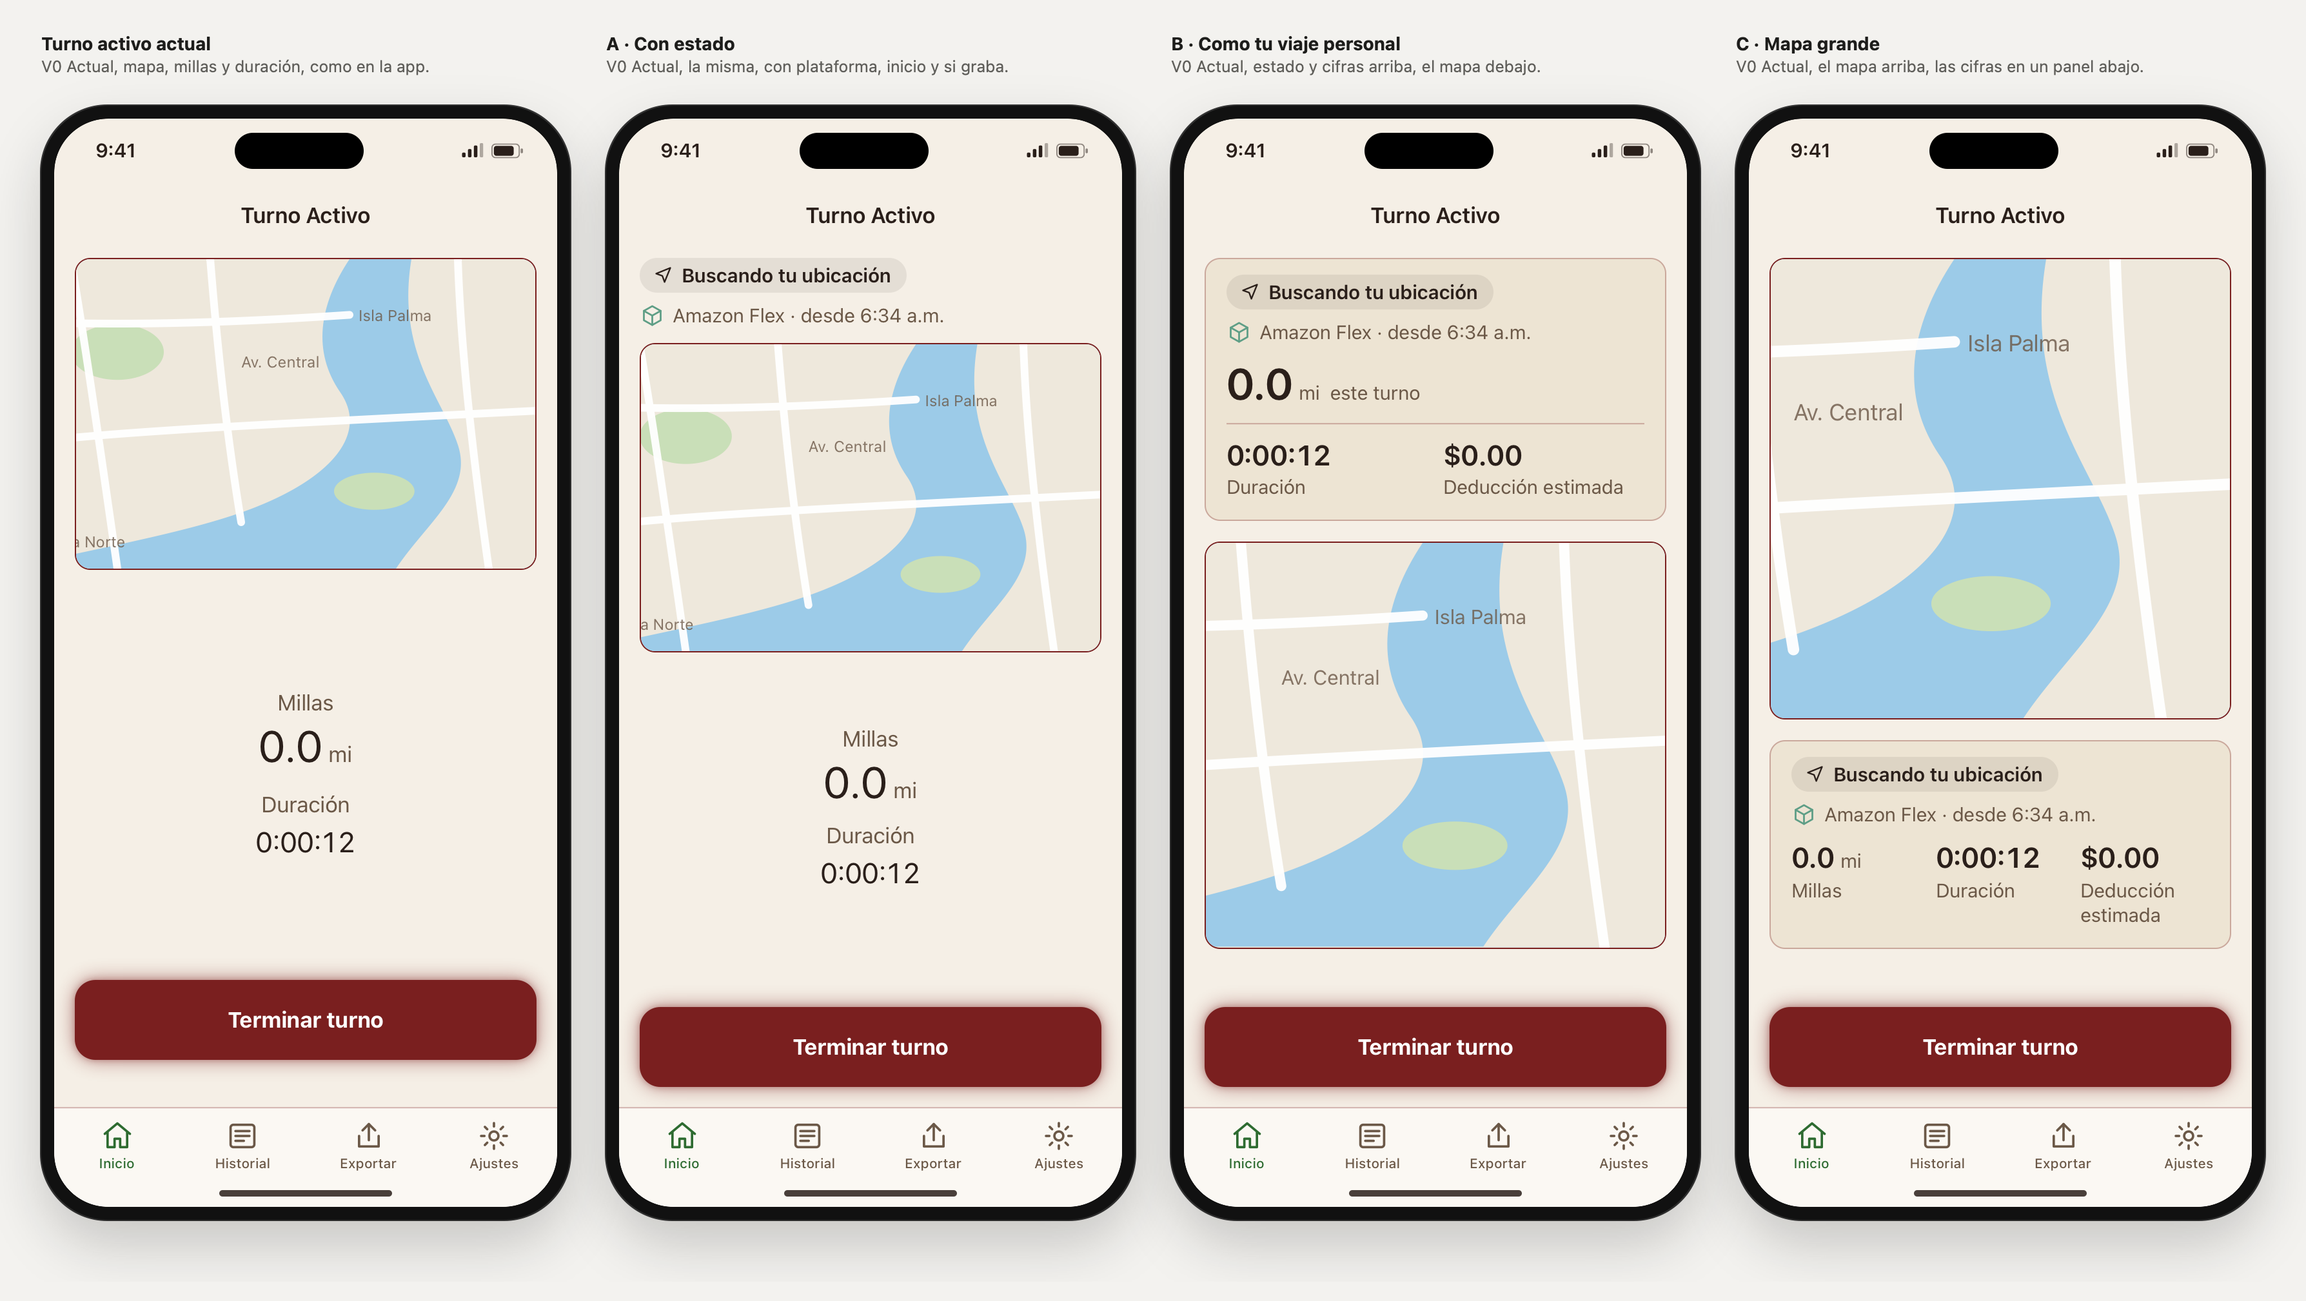
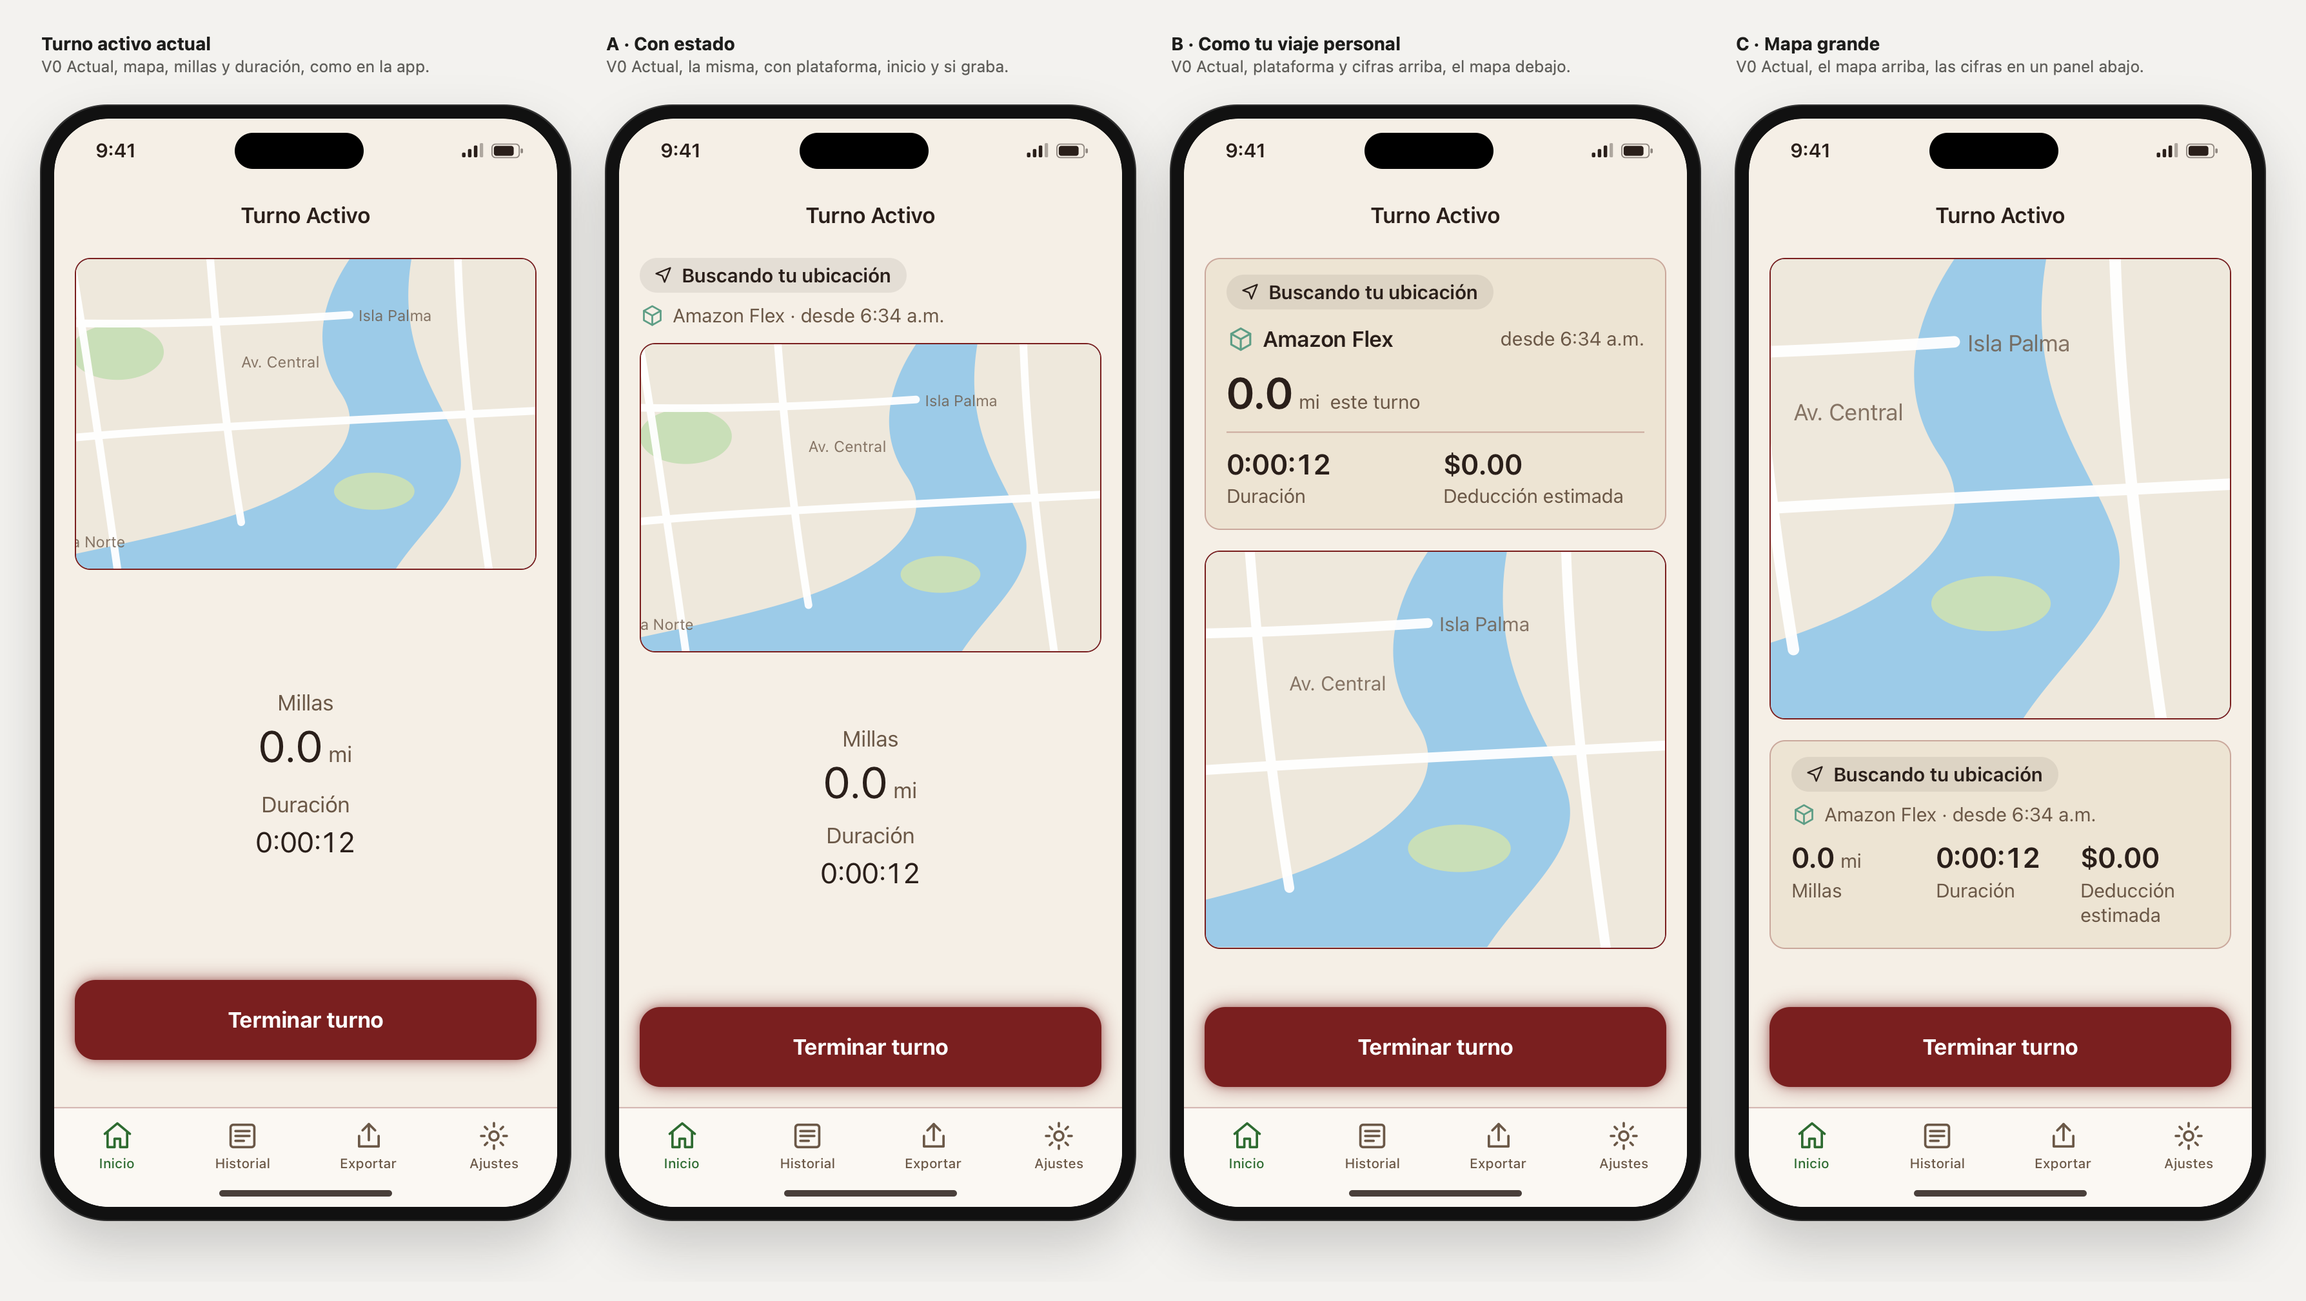
feat(design): choose B for «Turno en curso», without the tracking chip
Liber chose B and asked to drop the «Trackeando turno» chip with the green
dot: the box now opens with the platform and the start time, laid out like
Recientes D. «Buscando tu ubicación» still shows before the first GPS
point so 0.0 mi is never unexplained. The chosen Home link now carries
`turno=b`; A and C stay as references. WebKit audit: 720 renders,
0 failures; negative control 13 of 13. Lab only.

Changed region(s): [[0.5277, 0.3434, 0.7139, 0.6868], [0.5277, 0.2498, 0.6829, 0.3122], [0.5587, 0.0312, 0.6829, 0.0624]]

diff --git a/prototype/js/screens.js b/prototype/js/screens.js
@@ -599,6 +599,9 @@
     return {
       sh, miles, chip, who,
       status: `<div class="ts-status">${chip}${who}</div>`,
+      // B, as Liber chose it: no «Trackeando» chip, only the platform and the start time, laid out like Recientes D.
+      // The chip stays only while there is no GPS point yet, so 0.0 mi never stands unexplained.
+      statusB: `${waiting ? `<div class="ts-status">${chip}</div>` : ''}<div class="rd-top ts-top"><span class="rd-who">${platformBadge(platform)}<span class="rd-name">${esc(pname(platform))}</span></span> <span class="rd-date ts-since">${esc(ctx.t('shiftSince', { t: ctx.fmt.time(ctx.lang, sh.start) }))}</span></div>`,
       map: (cls) => E.map(ctx, sh.route ?? 0, { live: true, waiting, cls, label: `${ctx.t('routeMap')}, ${ctx.t(waiting ? 'routeWaiting' : 'routeInProgress')}` }),
       // The app's banner in its during-shift wording: not tappable, iOS has no link to Battery settings.
       low: lowCard(ctx, 'nLowShiftBody'),
@@ -628,7 +631,7 @@
     // B · The language of «El viaje primero»: the state, this shift's miles large, time and deduction, then the map.
   // End Shift keeps SPEC §4.4 (destructive fill, static glow) in every proposal.
     if (ctx.turno === 'b') {
-      return { header, body: `<div class="ts ts-b"><div class="pv-box ts-board">${P.status}
+      return { header, body: `<div class="ts ts-b"><div class="pv-box ts-board">${P.statusB}
           <span class="ts-board-fig"><span class="ts-big">${esc(P.miles)}<small> mi</small></span> <span class="ts-cap">${esc(ctx.t('thisShift'))}</span></span>
           <div class="rd-figs ts-figs">${P.figDur}${P.figDed}</div></div>${P.lowShort}${P.map('ts-map-fill')}</div>`,
         footer: `<div class="ts-foot">${P.end('ts-end-glow')}</div>` };

diff --git a/prototype/js/lab.js b/prototype/js/lab.js
@@ -60,7 +60,7 @@
     lab: ['Antigua del laboratorio', 'plataforma dentro de la pantalla y botón para volver; la app no es así'],
     actual: ['Turno activo actual', 'mapa, millas y duración, como en la app'],
     a: ['A · Con estado', 'la misma, con plataforma, inicio y si graba'],
-    b: ['B · Como tu viaje personal', 'estado y cifras arriba, el mapa debajo'],
+    b: ['B · Como tu viaje personal', 'plataforma y cifras arriba, el mapa debajo'],
     c: ['C · Mapa grande', 'el mapa arriba, las cifras en un panel abajo']
   };
   // «Tarjeta verde» and «Personal» views: which variants sit side by side.

diff --git a/prototype/HANDOFF.md b/prototype/HANDOFF.md
@@ -1,6 +1,6 @@
 # HANDOFF
 
-Último punto recuperable: rama `design/home-sin-titulo-2026-10-27`, derivada de `claude/prototype-design-lab` (`0a5ba0e`), que no se ha modificado. Para abrirlo, `prototype/index.html`. Inicio elegido hasta ahora: sin título, tarjeta C, su desglose propuesto, Opciones propuesta, Personal A, durante un viaje personal El viaje primero el círculo «Iniciar turno» con el trébol de Woodbridge de fondo, que en oscuro se corta alrededor del texto, los avisos B · Cada uno en su sitio y Recientes D · El último en grande (`#view=single&family=v0&home=sintitulo&card=c&desglose=propuesta&opciones=propuesta&personal=a&vivo=tablero&circulo=fondo-corte&avisos=b&recientes=d&lang=es&scenario=partial&screen=home`; con viaje, `screen=homeLive`; con dos avisos, `screen=homeTwoNotices`; sin avisos, para ver Recientes, `screen=homeNoNotice`). Comparación del círculo: `#view=iniciar&family=v0&lang=es&scenario=partial&screen=home`; su contraste en oscuro: `#view=contraste&family=v0&theme=dark&lang=es&scenario=partial&screen=home`. Avisos: `#view=avisos&family=v0&lang=es&scenario=partial&screen=homeTwoNotices`. Recientes (elegida D): `#view=recientes&family=v0&lang=es&scenario=partial&screen=homeNoNotice`. Turno en curso (tres propuestas, sin elegir): `#view=turno&family=v0&lang=es&scenario=partial&screen=active`. Comparación de Personal: `#view=personal&family=v0&lang=es&scenario=partial&screen=home`. Comparación de Opciones: `#view=opciones&family=v0&lang=es&scenario=partial&screen=homeOptions`. Comparación de la tarjeta C abierta: `#view=abierta&family=v0&lang=es&scenario=complete&screen=homeBreakdown`. La de la tarjeta verde: `prototype/index.html#view=tarjeta&cards=actual,c&family=v0&lang=es&scenario=partial&screen=home`. La de Original / Sin título sigue en `#view=sintitulo&family=v0&lang=es&scenario=partial&screen=home`.
+Último punto recuperable: rama `design/home-sin-titulo-2026-10-27`, derivada de `claude/prototype-design-lab` (`0a5ba0e`), que no se ha modificado. Para abrirlo, `prototype/index.html`. Inicio elegido hasta ahora: sin título, tarjeta C, su desglose propuesto, Opciones propuesta, Personal A, durante un viaje personal El viaje primero el círculo «Iniciar turno» con el trébol de Woodbridge de fondo, que en oscuro se corta alrededor del texto, los avisos B · Cada uno en su sitio, Recientes D · El último en grande y, durante el turno, B · Como tu viaje personal sin la ficha «Trackeando» (`#view=single&family=v0&home=sintitulo&card=c&desglose=propuesta&opciones=propuesta&personal=a&vivo=tablero&circulo=fondo-corte&avisos=b&recientes=d&turno=b&lang=es&scenario=partial&screen=home`; con viaje, `screen=homeLive`; con dos avisos, `screen=homeTwoNotices`; sin avisos, para ver Recientes, `screen=homeNoNotice`; con un turno en curso, `screen=active`). Comparación del círculo: `#view=iniciar&family=v0&lang=es&scenario=partial&screen=home`; su contraste en oscuro: `#view=contraste&family=v0&theme=dark&lang=es&scenario=partial&screen=home`. Avisos: `#view=avisos&family=v0&lang=es&scenario=partial&screen=homeTwoNotices`. Recientes (elegida D): `#view=recientes&family=v0&lang=es&scenario=partial&screen=homeNoNotice`. Turno en curso (elegida B): `#view=turno&family=v0&lang=es&scenario=partial&screen=active`. Comparación de Personal: `#view=personal&family=v0&lang=es&scenario=partial&screen=home`. Comparación de Opciones: `#view=opciones&family=v0&lang=es&scenario=partial&screen=homeOptions`. Comparación de la tarjeta C abierta: `#view=abierta&family=v0&lang=es&scenario=complete&screen=homeBreakdown`. La de la tarjeta verde: `prototype/index.html#view=tarjeta&cards=actual,c&family=v0&lang=es&scenario=partial&screen=home`. La de Original / Sin título sigue en `#view=sintitulo&family=v0&lang=es&scenario=partial&screen=home`.
 
 ## Fase 1: versión navegable (hecha)
 
@@ -189,7 +189,7 @@ Detalle completo en [HOME-RECIENTES.md](HOME-RECIENTES.md).
   - cambiar SPEC §4.3, PARITY.md, `docs/parity/home-screen.md` y Android.
 - **Siguiente paso:** que Liber elija el próximo detalle de Inicio. En el orden propuesto toca el turno activo: el círculo que cambia por «Turno activo», que falta en el laboratorio. Nada pasa a SwiftUI.
 
-### Turno en curso (6 nov): **tres propuestas, sin elegir**
+### Turno en curso (6 nov): **elegida B · Como tu viaje personal (`turno=b`), sin «Trackeando»**
 
 Detalle completo en [HOME-TURNO-ACTIVO.md](HOME-TURNO-ACTIVO.md).
 
@@ -213,7 +213,13 @@ Detalle completo en [HOME-TURNO-ACTIVO.md](HOME-TURNO-ACTIVO.md).
   - 720 renders sin fallos y control negativo de 11 de 11;
   - Recientes y avisos siguen sin fallos, y sus capturas no cambiaron.
 - **No se propone «Sin señal GPS»:** con el filtro de 10 m, parado no llegan puntos, y daría falsas alarmas. Haría falta un cambio en el motor.
-- **Siguiente paso:** que Liber elija A, B, C o ninguna. Nada pasa a SwiftUI.
+- **Decisión de Liber (6 nov): B, sin la ficha «Trackeando turno» con el punto verde.**
+  - Arriba solo quedan la plataforma y la hora de inicio, como en Recientes D.
+  - «Buscando tu ubicación» se queda antes del primer punto GPS; si Liber lo quiere fuera, se quita.
+  - A y C se quedan como referencia; el enlace del Inicio elegido lleva `turno=b`.
+  - Auditoría repetida: 720 renders sin fallos; control negativo de 13 de 13.
+- **Pendiente:** Liber notó que sobra espacio. Pensaba que la pantalla casi no se ve, pero se ve todo el turno; la que casi no se ve es el círculo de Inicio.
+- **Siguiente paso:** ajustar ese espacio si Liber quiere, o pasar al siguiente detalle del orden, Navidad. Nada pasa a SwiftUI.
 
 ## Cómo continuar
 

diff --git a/prototype/HOME-TURNO-ACTIVO.md b/prototype/HOME-TURNO-ACTIVO.md
@@ -1,6 +1,6 @@
-# Turno en curso: la app y tres propuestas
+# Turno en curso: elegida B
 
-Rama `design/home-sin-titulo-2026-10-27`, 6 nov 2026. Es el paso 3 del orden propuesto para Inicio, después de Recientes. Inicio no cambia: todo lo elegido sigue igual, Recientes D incluido.
+Rama `design/home-sin-titulo-2026-10-27`, 6 nov 2026. Es el paso 3 del orden propuesto para Inicio, después de Recientes. **Elegida: B · Como tu viaje personal** (`turno=b`), sin la ficha «Trackeando turno». Inicio no cambia: todo lo elegido sigue igual, Recientes D incluido.
 
 ![Turno en curso de la app, A, B y C, claro, ES, 390 px](captures/home-turno-activo/01-comparar-claro-es.png)
 
@@ -44,6 +44,7 @@ Lo que tienen en común:
   - «Trackeando turno», o «Buscando tu ubicación» mientras no llega el primer punto;
   - la plataforma y la hora de inicio.
   - La ficha es la misma de «El viaje primero».
+  - B, tal como la eligió Liber, no lleva la ficha mientras graba (ver B).
 - **El aviso de batería es corto:** el título y «Tus millas pueden quedarse cortas. Desactívalo en Ajustes de iOS → Batería.». Es la frase que la app ya lee en VoiceOver.
 - **El mapa encoge,** hasta 140 px, antes de que se tape una cifra.
 - **No cambia lo que ya funciona:**
@@ -75,7 +76,8 @@ La misma pantalla, con la línea de estado encima del mapa.
 
 El mismo lenguaje de «El viaje primero», que Liber eligió para el viaje personal.
 - **Una caja con:**
-  - la línea de estado;
+  - arriba, la plataforma y la hora de inicio, como en la tarjeta de Recientes D: «Amazon Flex» a la izquierda y «desde 5:10 a. m.» a la derecha;
+  - sin la ficha «Trackeando turno»: Liber la quitó al elegir B. Solo aparece «Buscando tu ubicación» mientras no llega el primer punto, para que «0.0 mi» no quede sin explicar;
   - las millas de este turno en grande;
   - debajo, la duración y la deducción estimada hasta ahora.
 - **Luego el mapa,** que ocupa lo que sobra.
@@ -116,7 +118,7 @@ En los casos de 390 × 844 px y 430 × 932 px, el texto es normal. La altura del
 | Millas fuera de la pantalla (de 180 estados) | 22 | 52 | **0** | 38 |
 | Cabe sin desplazar, 390 px con el aviso | no, faltan 64 | sí | sí | sí |
 
-## Recomendación: B
+## Recomendación: B (elegida el 6 nov)
 
 - **Es la única en la que las millas, lo que importa durante el turno, se ven siempre sin desplazar.** También «Terminar turno» se ve siempre.
 - **Repite «El viaje primero»,** que ya elegiste para el viaje personal: la misma ficha de estado, las cifras primero y luego el mapa.
@@ -127,6 +129,14 @@ En los casos de 390 × 844 px y 430 × 932 px, el texto es normal. La altura del
 - **Su coste es cambiar el SPEC §4.4:** el mapa deja de estar arriba.
 - **C es la alternativa** si pesa más ver el mapa grande que tener las millas siempre a la vista.
 - **A** es la opción si se quiere tocar lo mínimo y no cambiar el SPEC.
+
+## Decisión
+
+**Liber eligió B el 6 nov 2026, sin la ficha «Trackeando turno» con el punto verde.** Arriba quedan solo la plataforma y la hora de inicio.
+- **Se mantiene «Buscando tu ubicación»** antes del primer punto GPS, porque es lo único que explica «0.0 mi» al empezar. Si Liber también lo quiere fuera, se quita.
+- **Liber notó que la pantalla tiene mucho espacio.** Pensaba que casi no se ve, pero la que casi nunca se ve es el círculo «Turno activo» de Inicio: esta pantalla está delante todo el turno. Ajustar ese espacio queda pendiente.
+- A y C se quedan como referencia, con la ficha, y la app de hoy como «Hoy».
+- El enlace del Inicio elegido ahora lleva `turno=b`.
 
 ## Lo que no se propone, y por qué
 
@@ -156,8 +166,9 @@ En los casos de 390 × 844 px y 430 × 932 px, el texto es normal. La altura del
   - con el aviso largo, A no cabía a 390 px; ahora usa el aviso corto;
   - en los mapas altos, el punto del conductor quedaba fuera del mapa; ahora el mapa muestra el lado donde acaba la ruta, como la app, que sigue al conductor;
   - «18.6mi» salía sin espacio en B y C.
+- **Al registrar B sin la ficha,** la auditoría se repitió: 720 de 720 sin fallos. Comprueba que en B la ficha solo sale mientras busca ubicación y que la hora de inicio está.
 - **Fallo de la propia auditoría:** comprobaba el contraste del icono de la plataforma, que no tiene texto, en vez del nombre. Se corrigió y se repitió la auditoría completa.
-- **Control negativo: 11 de 11 detectados.** Se rompieron a propósito:
+- **Control negativo: 13 de 13 detectados.** Se rompieron a propósito:
   - el contraste;
   - una cifra recortada;
   - «Terminar turno» fuera de la pantalla, y también demasiado pequeño;
@@ -167,7 +178,8 @@ En los casos de 390 × 844 px y 430 × 932 px, el texto es normal. La altura del
   - el aviso quitado;
   - una cifra de menos;
   - una cifra fuera de su caja;
-  - un «Terminar turno» que no pregunta.
+  - un «Terminar turno» que no pregunta;
+  - en B, la ficha mientras graba y la hora de inicio quitada.
 - **Lo de antes sigue igual:**
   - las auditorías de Recientes (1440 de 1440) y de avisos (864 de 864) siguen sin fallos;
   - sus capturas no cambiaron ni un byte;
@@ -210,4 +222,4 @@ En los casos de 390 × 844 px y 430 × 932 px, el texto es normal. La altura del
 
 ## Siguiente paso
 
-Liber elige A, B, C o ninguna. Nada pasa a SwiftUI.
+Que Liber diga si ajustamos el espacio de B o elige el próximo detalle de Inicio; en el orden propuesto toca Navidad. Nada pasa a SwiftUI.

diff --git a/prototype/README.md b/prototype/README.md
@@ -26,7 +26,7 @@ Este es un laboratorio navegable en HTML, CSS y JavaScript con datos sintéticos
 | Escenario | Pago parcial (24 oct), pagos completos, cifras demasiado grandes, sin datos (aproximación), turno sin cerrar y tres pruebas de diseño: importe largo, cobrado $0 y millas personales largas |
 | Avisos | Avisos de Inicio: los de hoy, A · Un solo aviso, B · Cada uno en su sitio (elegida) o C · Franja arriba (solo V0); ver [HOME-AVISOS.md](HOME-AVISOS.md) |
 | Recientes | Recientes de Inicio: la antigua del laboratorio (por defecto; no es la app), la actual de la app, A · Mapa con datos, B · Los tres últimos, C · El último, compacto o D · El último en grande (elegida) (solo V0); ver [HOME-RECIENTES.md](HOME-RECIENTES.md) |
-| Turno | Turno en curso: la antigua del laboratorio (por defecto; no es la app), la actual de la app, A · Con estado, B · Como tu viaje personal o C · Mapa grande (solo V0); ver [HOME-TURNO-ACTIVO.md](HOME-TURNO-ACTIVO.md) |
+| Turno | Turno en curso: la antigua del laboratorio (por defecto; no es la app), la actual de la app, A · Con estado, B · Como tu viaje personal (elegida, sin «Trackeando») o C · Mapa grande (solo V0); ver [HOME-TURNO-ACTIVO.md](HOME-TURNO-ACTIVO.md) |
 | Pantalla | Salta a uno de los estados de ejemplo, incluidos los cuatro de viaje personal en marcha (con Personal A) y los de avisos (sin avisos, ubicación apagada, ahorro de batería, dos avisos y Personal sin Movimiento) y el último turno sin ruta, y los del turno en curso (en marcha, buscando ubicación, ahorro de batería, turno largo y la pregunta de terminar). Después se puede navegar normalmente por la app |
 | Ancho | 320, 390 o 430 px |
 | Texto | 100 %, 135 % o 200 %. Aproxima Dynamic Type/AX; no equivale a iOS |
